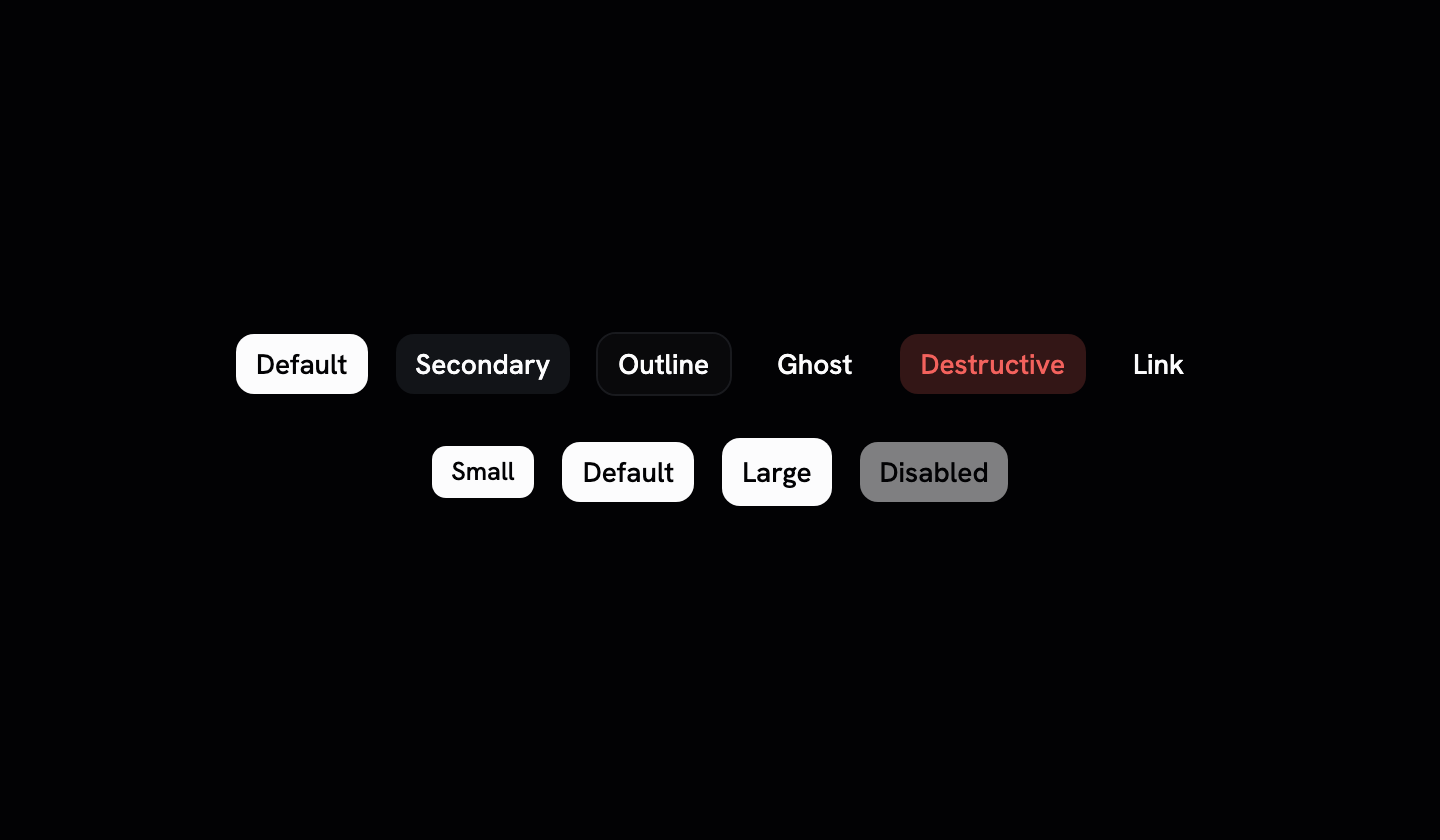
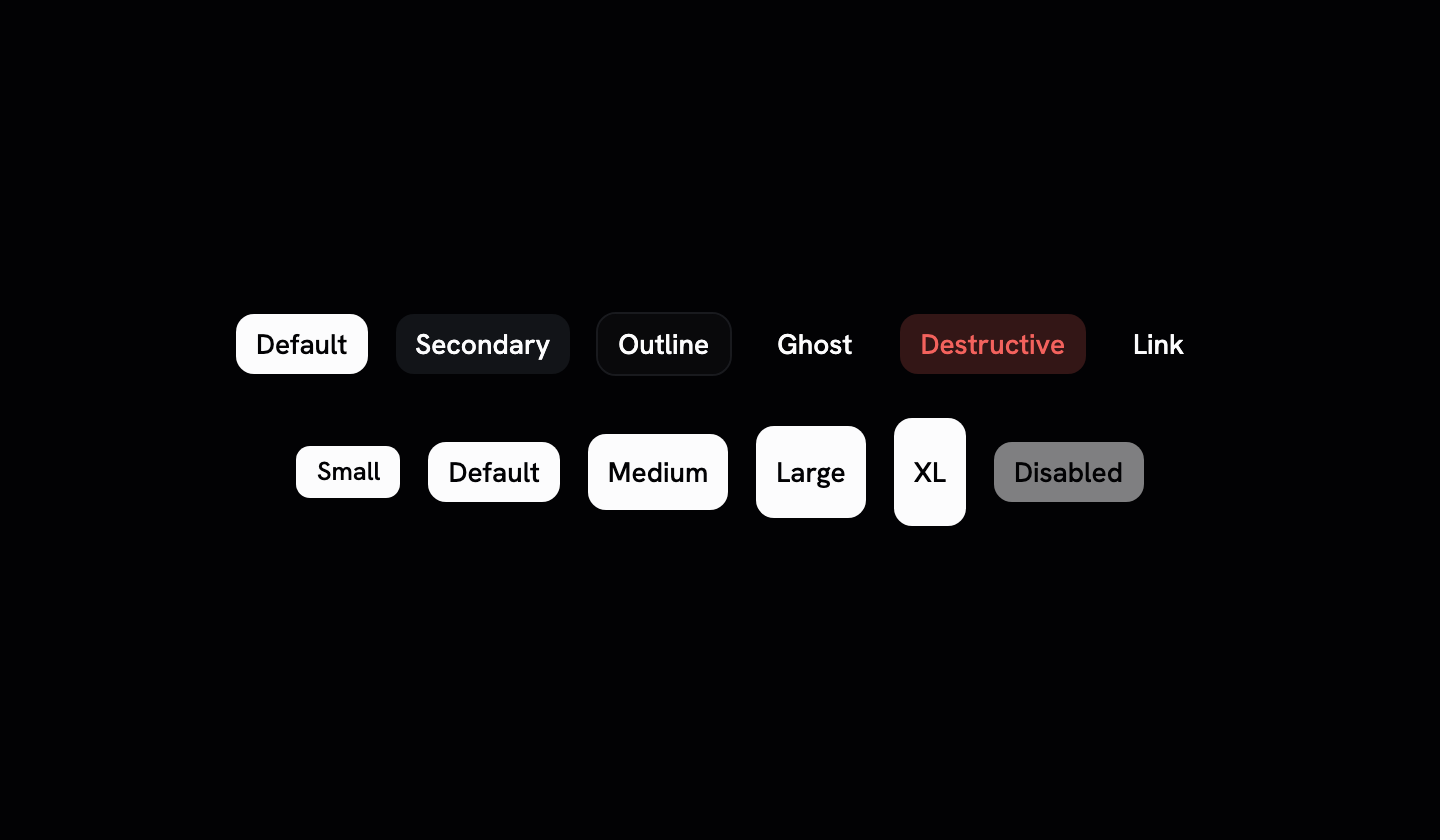
feat(registry): Button lg sube a h-12, la escala de @saastro/forms
HubForm pasa size al Button inyectado y forms usa md h-10 · lg h-12 ·
xl h-14; con lg en h-9, SIZE=lg pintaba más bajo que md. Firma de JC
01M3RVWH (hero-aparte): el Hero del theme pasa a otra talla en su PR.
icon-lg no se toca: forms no lo usa. El test fija lg=h-12 (mutante
lg→h-9 en rojo). La preview enseña sm·default·md·lg·xl; capturas
regeneradas (solo button cambia de píxeles).

Encargo 01M3RW8F0YHX6AXB9WQH4B2KVD

diff --git a/packages/ui-registry/registry/default/ui/button.tsx b/packages/ui-registry/registry/default/ui/button.tsx
@@ -24,11 +24,11 @@ const buttonVariants = cva(
           "h-8 gap-1.5 px-2.5 has-data-[icon=inline-end]:pr-2 has-data-[icon=inline-start]:pl-2",
         xs: "h-6 gap-1 rounded-[min(var(--radius-md),10px)] px-2 text-xs in-data-[slot=button-group]:rounded-lg has-data-[icon=inline-end]:pr-1.5 has-data-[icon=inline-start]:pl-1.5 [&_svg:not([class*='size-'])]:size-3",
         sm: "h-7 gap-1 rounded-[min(var(--radius-md),12px)] px-2.5 text-[0.8rem] in-data-[slot=button-group]:rounded-lg has-data-[icon=inline-end]:pr-1.5 has-data-[icon=inline-start]:pl-1.5 [&_svg:not([class*='size-'])]:size-3.5",
-        // md y xl completan la escala de @saastro/forms (md h-10 · lg h-12 ·
-        // xl h-14), que pasa `size` al Button inyectado. lg sigue en h-9:
-        // subirlo cambia el Hero de todos los sites y es decisión aparte.
+        // md · lg · xl son la escala de @saastro/forms (md h-10 · lg h-12 ·
+        // xl h-14), que pasa `size` al Button inyectado. lg era h-9 hasta la
+        // firma 01M3RVWH: el Hero del theme deja lg por su propia talla.
         md: "h-10 gap-1.5 px-2.5 has-data-[icon=inline-end]:pr-2 has-data-[icon=inline-start]:pl-2",
-        lg: "h-9 gap-1.5 px-2.5 has-data-[icon=inline-end]:pr-2 has-data-[icon=inline-start]:pl-2",
+        lg: "h-12 gap-1.5 px-2.5 has-data-[icon=inline-end]:pr-2 has-data-[icon=inline-start]:pl-2",
         xl: "h-14 gap-1.5 px-2.5 has-data-[icon=inline-end]:pr-2 has-data-[icon=inline-start]:pl-2",
         icon: "size-8",
         "icon-xs":

diff --git a/packages/ui-registry/tests/button-size.test.tsx b/packages/ui-registry/tests/button-size.test.tsx
@@ -5,13 +5,13 @@ import { describe, expect, it } from "vitest"
 import { Button, buttonVariants } from "@/components/ui/button"
 
 // @saastro/forms pasa `size` (md · lg · xl) al Button inyectado. Sin md/xl en
-// el cva, el control SIZE de HubForm no hacía nada. Y lg/default se fijan
-// aquí porque tocarlos cambia el Hero de todos los sites: que falle si
-// alguien los mueve sin querer.
+// el cva, el control SIZE de HubForm no hacía nada; con lg en h-9, SIZE=lg
+// pintaba más bajo que md. default y lg se fijan aquí porque tocarlos cambia
+// lo que ven los sites al sincronizar: que falle si alguien los mueve.
 const ALTURAS = {
   default: "h-8",
   md: "h-10",
-  lg: "h-9",
+  lg: "h-12",
   xl: "h-14",
 } as const
 
